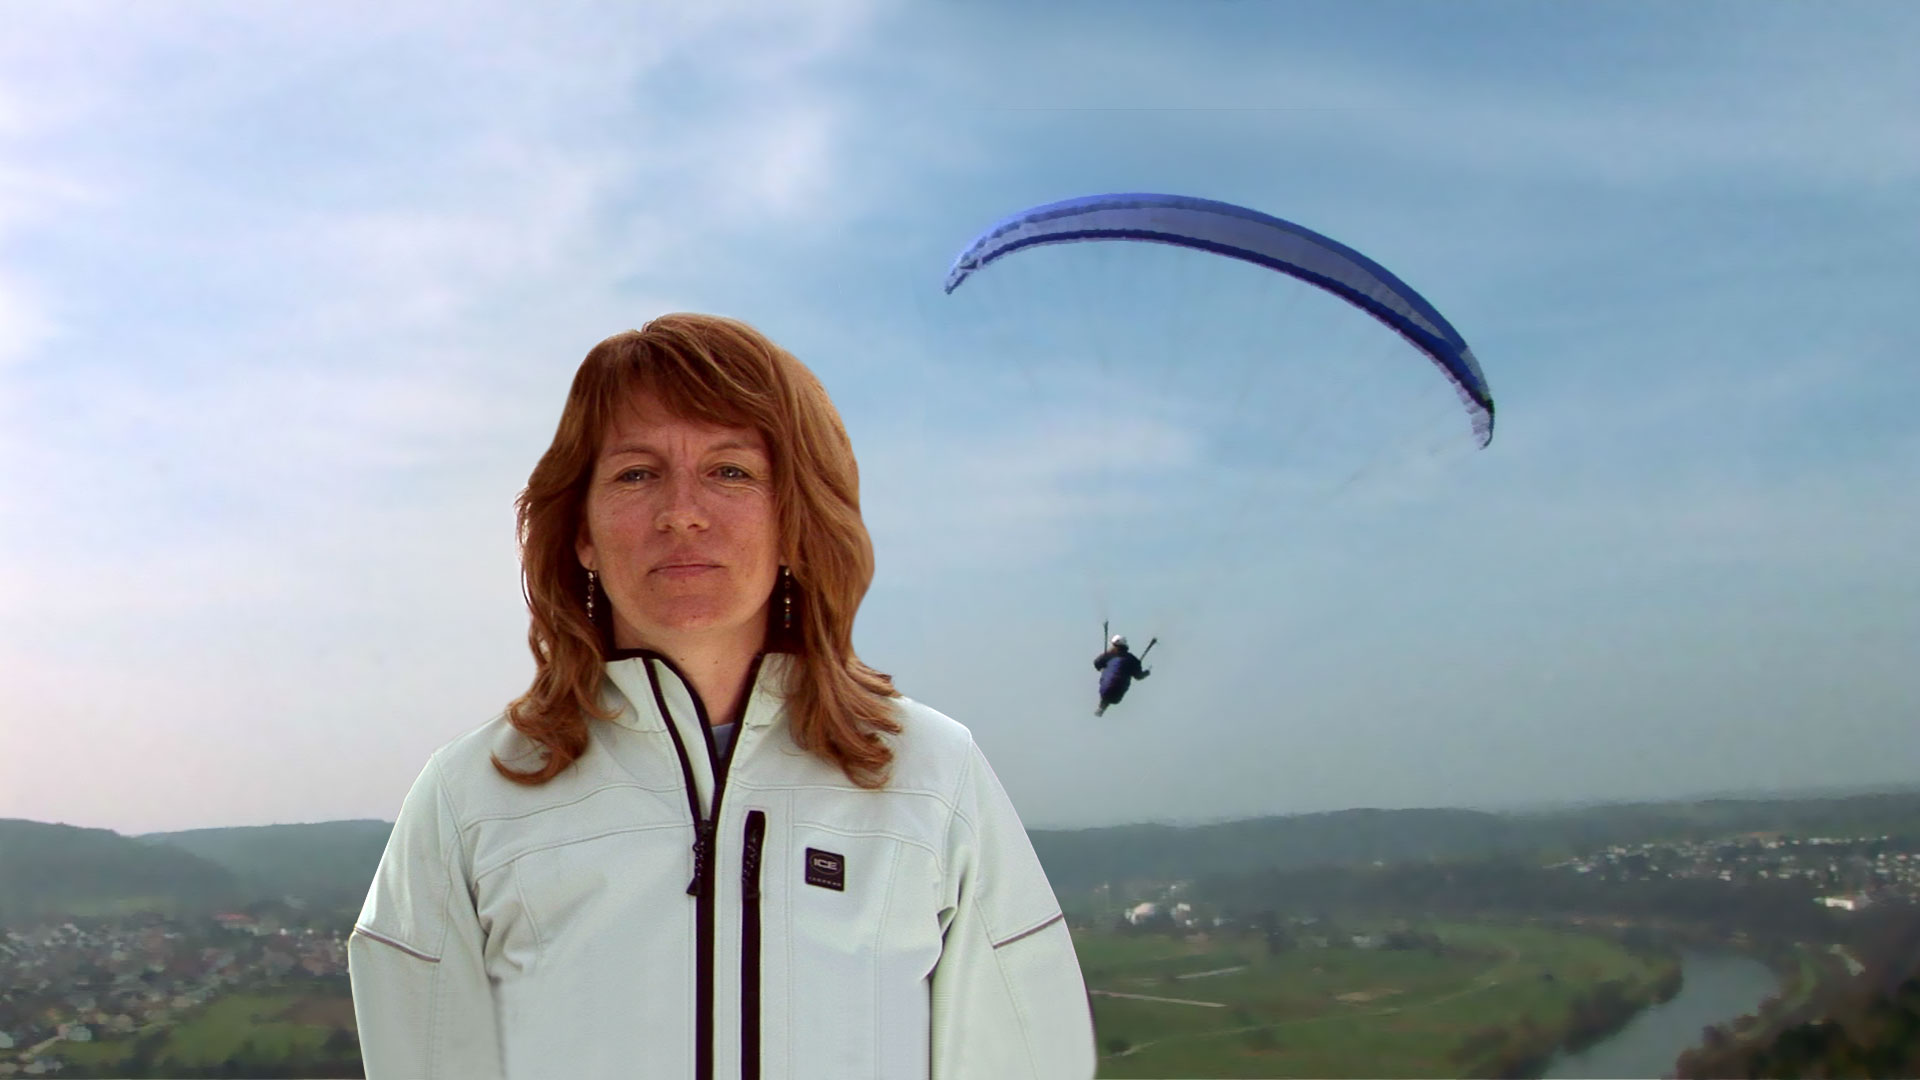
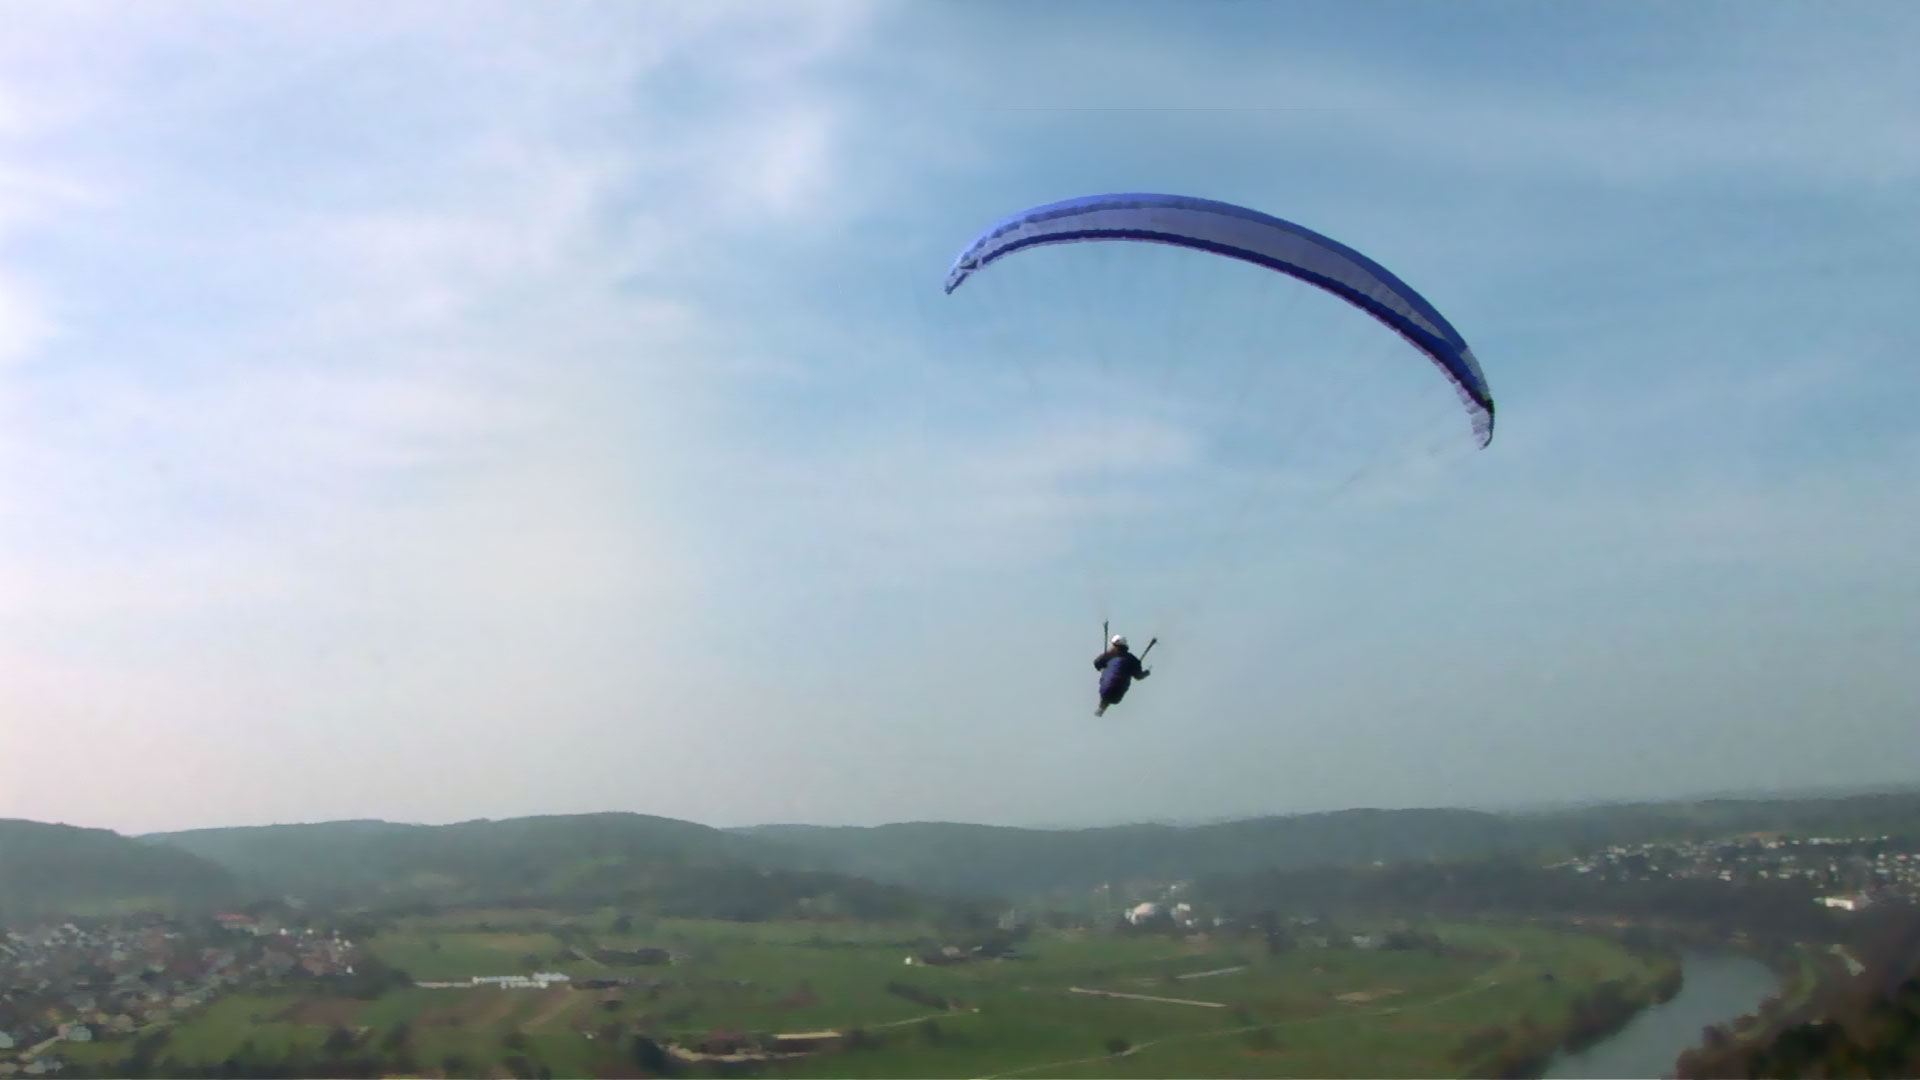
asdad

Changed region(s): [[0.1562, 0.275, 0.5938, 1.0]]

diff --git a/css/main.css b/css/main.css
@@ -218,6 +218,11 @@ input[type=text], input[type=submit], input[type=reset], textarea {
 	overflow: hidden;
 }
 
+.portraitIMG {
+	position: absolute;
+	bottom: -200px;
+}
+
 #protagonistContent .backgroundImage {
 	position: absolute;
 	top: 0px;

diff --git a/portrait.php b/portrait.php
@@ -39,11 +39,12 @@
 			</li>
 			
 			<li class="contentBox">
+				<img src="img/backgrounds/wind-single.png" class="portraitIMG" alt="wind-single" width="780" height="780" />
 				<div class="playButton"></div>
 				<div class="description">
 				<hgroup>
-					<h2>Brigitte Schmitt</h2>
-					<h1>Tierheim Dallau – Jeder Käfig hat seine Geschichte</h1>
+					<h2>Michaela Pusch</h2>
+					<h1>Soweit der Wind sie trägt</h1>
 				</hgroup>
 					<p>
 						<a href="" class="infoLink">weitere Infos</a>
